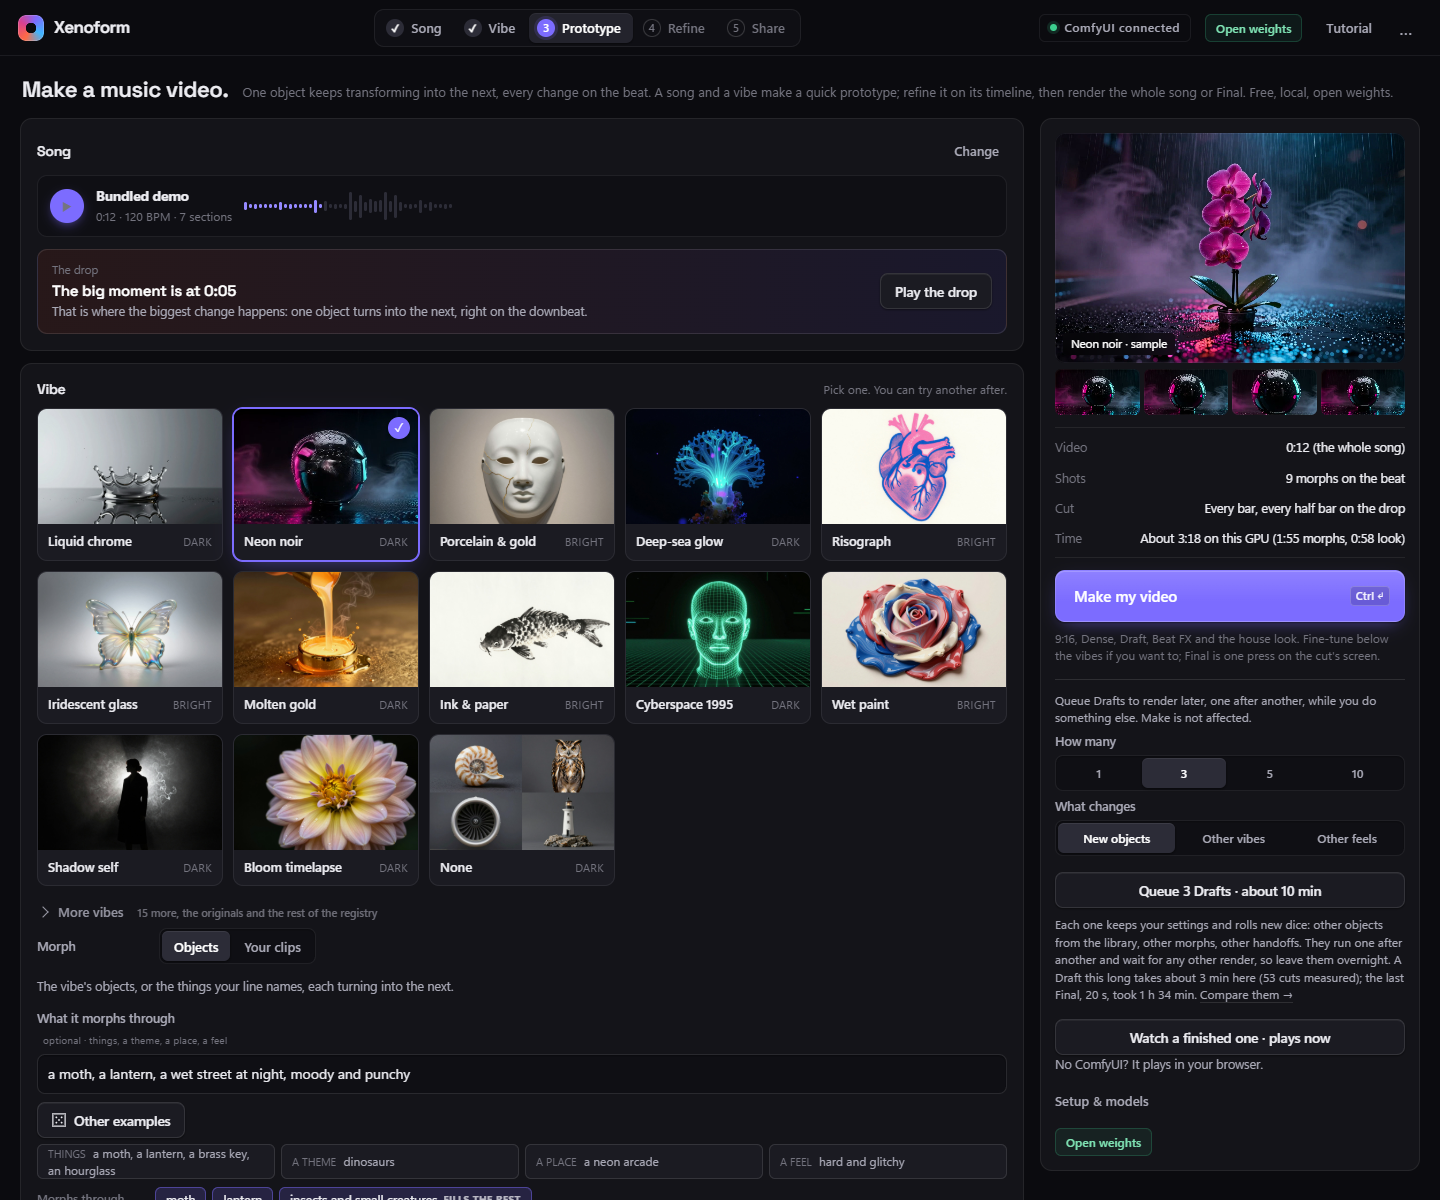
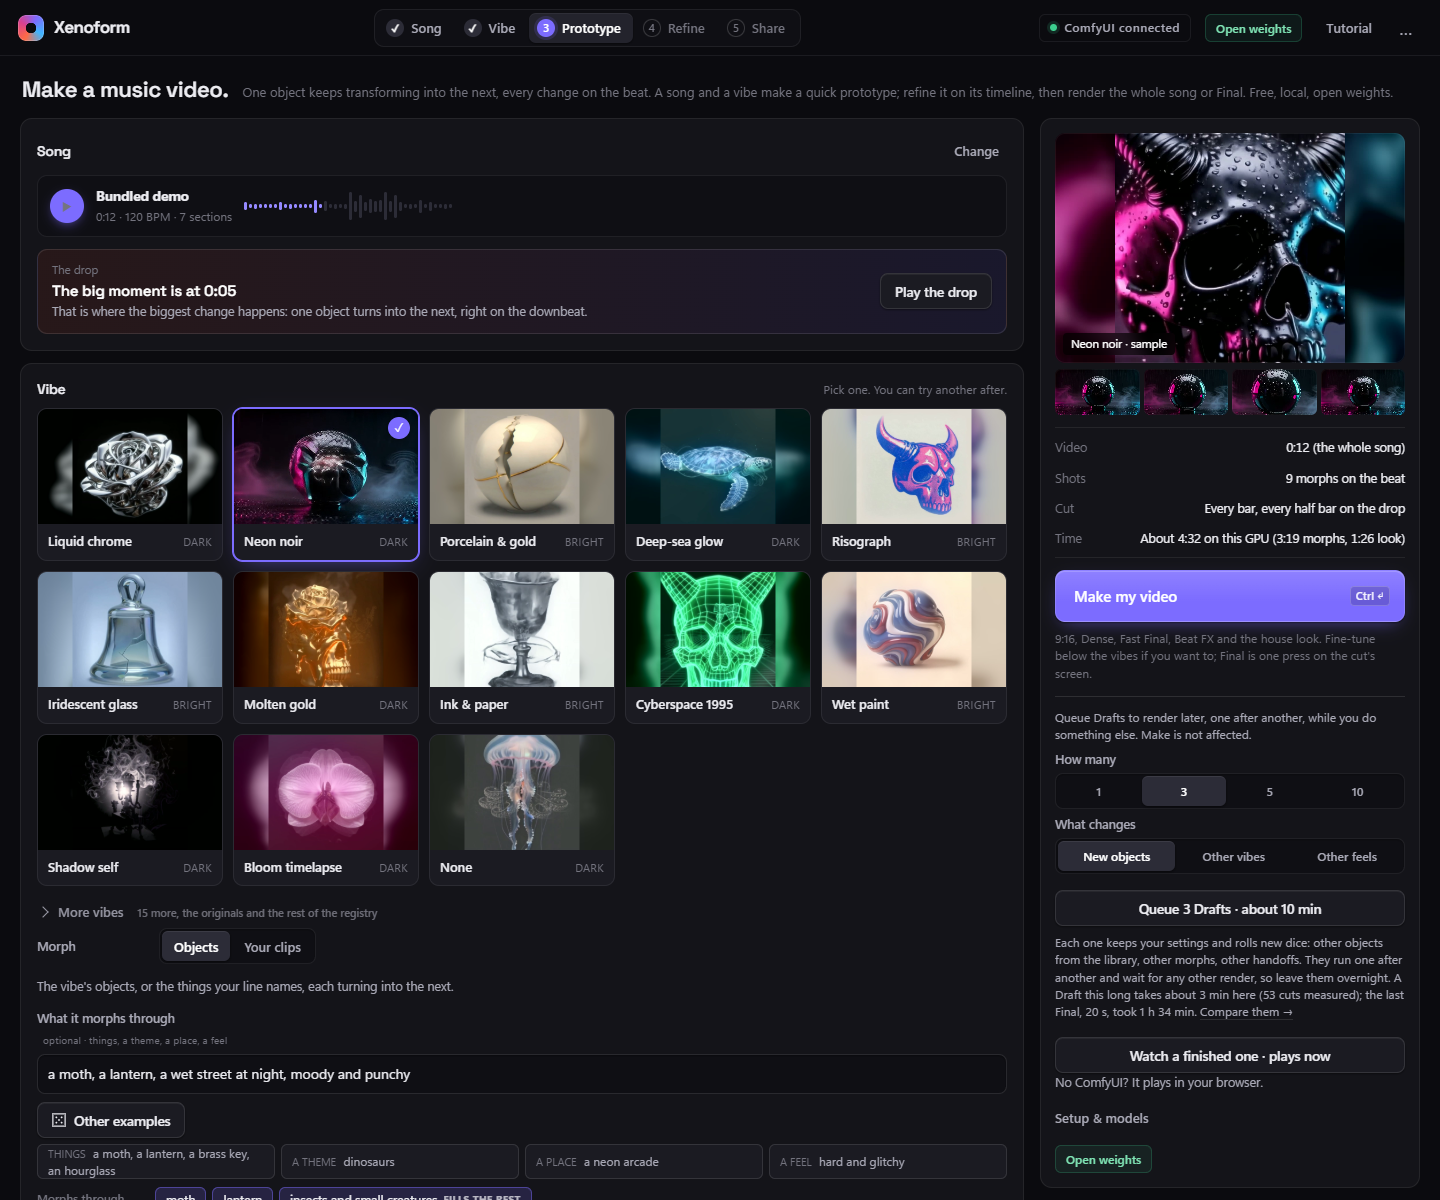
Vibe tiles from the engine's own cuts; the demo says any card from 12 GB up
Each featured tile is one frame of that vibe's Cloud Final cut (the ten example cuts of 29 Oct plus the three
showcase cuts: one per vibe, 128 + 37 morphs on Comfy Cloud), the centre of the frame on its own blur, in place of
the drawn stills; the desk serves the tiles no-cache like its scripts, so a changed tile shows without a hard refresh
(test). The README's two screenshots are retaken on them. The demo's How it's built line, the long's l36, the
diagram's LTX box and CONTEST.md's Runs on row say the app runs on any card from 12 GB up, not on one 12 GB card
(Tys). The walkthrough page and the handoff carry the example cuts (jobs, chains, 464 credits, 11,325 left) and the
wording change.

Changed region(s): [[0.0, 0.3392, 0.9688, 0.9867], [0.7188, 0.0925, 1.0, 0.3083], [0.1875, 0.3392, 0.2812, 0.4317]]

diff --git a/src/xenoform/ui.py b/src/xenoform/ui.py
@@ -256,11 +256,14 @@ def create_app(cfg: dict | None = None):
 
     class _FreshCode(StaticFiles):
         """The desk's own scripts and styles revalidate on every load (an ETag check, a 304 when unchanged), so a desk
-        restarted on new code is new in the browser without Ctrl+Shift+R; pictures keep the browser's usual cache."""
+        restarted on new code is new in the browser without Ctrl+Shift+R; so do the vibe tiles (their pictures change
+        with the library: 29 Oct, one frame of each vibe's Cloud Final cut); other pictures keep the browser's usual
+        cache."""
 
         def file_response(self, full_path, *args, **kwargs):
             response = super().file_response(full_path, *args, **kwargs)
-            if str(full_path).endswith((".js", ".css", ".html")):
+            path = str(full_path).replace("\\", "/")
+            if path.endswith((".js", ".css", ".html")) or "/vibes/" in path:
                 response.headers["Cache-Control"] = "no-cache"
             return response
 

diff --git a/tests/test_desk_steady.py b/tests/test_desk_steady.py
@@ -100,6 +100,7 @@ def test_the_desk_code_revalidates_so_a_restart_needs_no_hard_reload():
     client = TestClient(ui.create_app())
     assert client.get("/static/app.js").headers.get("cache-control") == "no-cache"
     assert client.get("/static/desk.css").headers.get("cache-control") == "no-cache"
+    assert client.get("/static/vibes/neon-noir.jpg").headers.get("cache-control") == "no-cache"  # the tiles change with the library
 
 
 def test_variations_queue_one_draft_and_say_so_in_plain_words():

diff --git a/docs/demo/walkthrough.md b/docs/demo/walkthrough.md
@@ -14,7 +14,7 @@ the social post. Voice-over over the screen, the outputs played full frame, capt
   and setup instructions, and the URL of a public post tagged #OpenSourceHiggsfield that carries the video and the repo
   link. Categories claimed: Open Weights Only, and the LTX bonus (LTX as the core video model).
 - So the short video must, inside 1:55: show the desk making and editing a cut, show real outputs, say how it is built
-  (song analysis, ComfyUI graphs through the Comfy SDK, LTX on one 12 GB card, all open weights) and say what is new.
+  (song analysis, ComfyUI graphs through the Comfy SDK, LTX on any card from 12 GB up, all open weights) and say what is new.
   It ends on the repo URL. The long one is for the README and the post's replies, with no limit.
 
 ## Short (about 1:52)
@@ -31,7 +31,7 @@ the social post. Voice-over over the screen, the outputs played full frame, capt
 | 0:54 | The timeline: picture tiles, the Look tab, a colour change, Apply | Then edit it like a timeline. Colour, effects, order and cuts, shot by shot, re-cut from the cached morphs with no GPU. |
 | 1:07 | Morph > Your clips: Caligari, Nosferatu, NASA | Or morph your own film clips into each other. |
 | 1:15 | Draft, Fast Final, Final, Cloud Final, with their times | A Draft in minutes, a Fast Final at 1080p, the full local Final, or Cloud Final, the same morphs on Comfy Cloud. |
-| 1:23 | How it's built: song → stems and bars → plan → ComfyUI graphs → LTX morphs → re-cut (a diagram over the desk) | How it's built: the song is split into stems and bars, the plan becomes ComfyUI graphs sent through the Comfy SDK, and LTX renders every morph on one 12 GB card. All open weights, local by default. |
+| 1:23 | How it's built: song → stems and bars → plan → ComfyUI graphs → LTX morphs → re-cut (a diagram over the desk) | How it's built: the song is split into stems and bars, the plan becomes ComfyUI graphs sent through the Comfy SDK, and LTX renders every morph on any card from 12 GB up. All open weights, local by default. |
 | 1:37 | What's new: the song's waveform under the timeline; the MCP panel | What's new: the edit comes from the music itself, every shot is generated, and you change it like an editor, not a prompt box. An MCP server lets any AI drive it. |
 | 1:48 | End card: github.com/tysonfarrington-cmyk/xenoform, #OpenSourceHiggsfield | Xenoform. Open source, on GitHub. |
 
@@ -88,9 +88,9 @@ the social post. Voice-over over the screen, the outputs played full frame, capt
   real (a None "underwater" cut; racing was the first example, dropped: "you want to see cars driving not
   morphing"). Recording found the desk blinking on every click (fixed in
   f9eaa7e).
-- **The short** (1:42 af_heart, 1:48 am_michael, 1:46 bm_george) and **the long** (6:52 in af_heart, ten chapters with
-  labels) were rebuilt on the frozen app on 29 Oct at 7 am and are in `Desktop\xeno_walkthrough_29oct`, with 720p review
-  copies. Every desk shot was re-recorded on the final commit (the Make on camera is a Fast Final of the None
+- **The short** (1:43 af_heart, 1:48 am_michael, 1:47 bm_george) and **the long** (6:52 in af_heart, ten chapters with
+  labels) were rebuilt on the frozen app on 29 Oct (last at 9 am) and are in `Desktop\xeno_walkthrough_29oct`, with 720p
+  review copies. Every desk shot was re-recorded on the final commit (the Make on camera is a Fast Final of the None
   "underwater" cut, b251df0c); captions are burned in from the voice copy; the music bed is Tys's Suno track
   XF_HipHop_BoomBap_01, ducked under the voice (looped under the long one); the mix is -16 LUFS.
 - **The long one's chapters** (for the YouTube description, af_heart timing): 0:00 What it is · 0:20 Song and vibe ·
@@ -106,6 +106,27 @@ the social post. Voice-over over the screen, the outputs played full frame, capt
   seahorse pair (two seahorse stills, 7 to 12 s), so its shots start past it. The first attempt through the API ran the
   classic chunk render instead (the Make body needs `quality: "turbo"`, as the desk sends it); those three jobs
   (abdf7a0d, b599647d, 8057c0c0) spent nothing on Cloud and sit in desk 47326's My videos.
+- **"Any card from 12 GB up"** (Tys, 29 Oct 9 am: the demo "can run on 12gb vram and up cards not just a 12gb"): the
+  short's How it's built line, the long's l36 and the diagram's LTX box said "one 12 GB card"; they now say any card
+  from 12 GB up (so does docs/CONTEST.md's Runs on row). Only those two lines were re-read (`kokoro-tts/reread_line.py`
+  replaces one line's wav in a read and its seconds; the measures held: no rising end, one sample at the peak), the
+  cards re-recorded with the cue moved from "card." to "gigabytes up.", and both cuts re-assembled.
+- **The example cuts** (Tys, 29 Oct 9 am: "we have heaps of credits left so we should make a few example videos"):
+  one 30 s Cloud Final cut for each of the other ten featured vibes, through the desk like any Make, on Tys's Suno
+  instrumentals (`scratchpad/wt/examples.py`), in `Desktop\xeno_examples_29oct` with a 16-frame sheet each and
+  `examples.json` (job, chain, time): Liquid chrome / Techno (dad92e3f), Porcelain & gold / Breakbeat (18dcd1a8),
+  Deep-sea glow "underwater" / DnB v2 (d2f19f7a), Risograph / Hip-hop (00ac3e00), Iridescent glass / Synthwave v2
+  (fbd103a4), Ink & paper / Riff Tool (d4ed04ab), Cyberspace 1995 / Psytrance (a56d1354), Wet paint / Bass (3991568a),
+  Shadow self / Riff Korn (b4fd5b3f), Bloom timelapse / Ambient (ec770cb9). 128 morphs in 63 minutes, 5:02 to 7:32 a
+  cut (a cut that grows fresh objects for its chain first is the slow end); the dashboard went 11,789 to 11,325
+  credits (464, about 3.6 a morph). With the three showcase cuts that is one Cloud Final cut per vibe, for the post
+  and the README once Tys uploads them. Seen on the sheets: bright vibes (porcelain, glass, ink, wet paint) show the
+  boundary wipes as pale bands across the ground for a few frames, which the dark vibes hide.
+- **The vibe thumbnails** (Tys: "update thumbnails for vibes") are now one frame from each vibe's Cloud Final cut
+  (`scratchpad/wt/make_thumbs.py` with `picks_thumbs.json`: the centre square of the frame on the same frame blurred,
+  1280x800 like before; the old files are in `scratchpad/wt/thumbs_old`). One judge a vibe picked the frame from the
+  sheet (a fully formed object, a strong silhouette at 150 px), checked by eye. The README's two screenshots were
+  retaken with them (`readme_shots.py`).
 
 ## Still to decide
 

diff --git a/CHANGELOG.md b/CHANGELOG.md
@@ -2,6 +2,11 @@
 
 ## 0.3.3 (unreleased, the week to the contest)
 
+- **The vibe tiles show the engine's own pictures** (Tys, 29 Oct: "update thumbnails for vibes"). Each of the thirteen
+  featured tiles is one frame of that vibe's Cloud Final cut (LTX-2.5 on Comfy Cloud, the example cuts of 29 Oct), the
+  centre of the frame on the frame's own blur, in place of the drawn stills. The tiles' pictures now revalidate on every
+  load like the desk's scripts (`Cache-Control: no-cache`), so a changed tile shows without a hard refresh. The demo and
+  CONTEST.md say the app runs on any card from 12 GB up, not on one 12 GB card.
 - **Cloud Final** (Tys, 29 Oct: "we have access to ltx 2.5 though ?? and a comfyui sub thing ?? surely there can at least be an option for that"). Model → Cloud Final renders every morph on Comfy Cloud (`xenoform.cloud_final` through `cloud_backend`), three at a time at 576x1024, then scales them to 1080x1920 and composes the cut here: on the test pair (nautilus -> owl, 3 s) a morph came back in 58 s. **The Final is LTX-2.5 now, here and on Cloud**, with loose guides: with its graph's own guides (strength 1.0, img_compression 18) LTX-2.5 held the shell and cut to the owl near the end, on Cloud and on this card alike; with the end guide at 0.6, img_compression 30 and a prompt that asks for the change across the whole clip it morphs, half and half mid-clip, where LTX-2.3 makes a quicker change. Locally it is the Final whenever the four LTX-2.5 files are installed (`XENO_FINAL_MODEL=ltx23` keeps LTX-2.3): 5 to 7 minutes a 3 s shot at 576x1024 against 12 for LTX-2.3's two stages and upscale. The local LTX-2.5 Draft engine, meant to switch on when its files were present, never had (its check imported a function that did not exist); it is opt-in now (`XENO_MORPH_ENGINE=ltx25`). The same open weights on Comfy's GPUs: partner and API nodes are refused before anything is sent. It spends the account's Comfy Cloud credits, so it needs `COMFY_ORG_API_KEY` in the desk's environment, a tick under Model on every Make (`cloud_final_ok`, cleared when the model changes), and takes at most 16 morphs a cut; a morph that fails on Cloud falls back to its Draft.
 - **The example theme is underwater, not racing** (Tys, 29 Oct: "you want to see cars driving not morphing"). The underwater theme is sea life only now (a jellyfish, an octopus, a seahorse, a nautilus, a manta ray and ten more: soft, flowing forms are what a morph does best; the diving helmet, anchor, ship's wheel, submarine and porthole went), and twelve of its fifteen are already in the library. A theme's own name typed alone is that theme even where it is also a place word: "underwater", "space" and "the wild west" read as scenes before. The desk's placeholder, examples and the README lead with it; racing stays in the list.
 - **A click no longer blinks the desk** (found recording the walkthrough, 29 Oct; Tys, 28 Oct: "make sure everything is static"). Every click redraws the desk, and the fade-in on the page faded the whole desk out and back with a 4 px slide each time. It plays now only when the screen changes (the desk, the making screen, the cut, a tool page).

diff --git a/docs/HANDOFF_29OCT.md b/docs/HANDOFF_29OCT.md
@@ -58,6 +58,16 @@ out of date on the tiers (no Cloud Final, "all local") and must be rebuilt after
   `run_directed` runs the classic chunk render (the first three jobs abdf7a0d, b599647d, 8057c0c0 did; no credits
   spent); and the chain picker let two seahorse stills sit side by side in the None cut (a repeat inside a cut, a
   follow-up for after the contest, so the shots were placed past it).
+- 9 to 10:30 am, Tys's three asks: (1) **example cuts**, one 30 s Cloud Final cut for each of the other ten featured
+  vibes on his Suno instrumentals (`scratchpad/wt/examples.py`; `Desktop\xeno_examples_29oct`, a sheet and
+  `examples.json` beside them; 128 morphs, 464 credits, 11,325 left), so every vibe has a Cloud Final cut for the post
+  and the README once he uploads them; (2) **the demo says any card from 12 GB up**, not one 12 GB card: the short's
+  How it's built line, the long's l36, the diagram's LTX box and CONTEST.md's Runs on row; only those two lines were
+  re-read (`C:\Projects\kokoro-tts\reread_line.py`), the cards re-recorded, both cuts re-assembled to the Desktop
+  (short 1:43 / 1:48 / 1:47, long 6:52); (3) **new vibe thumbnails**, one frame from each vibe's Cloud Final cut
+  (`scratchpad/wt/make_thumbs.py`, `picks_thumbs.json`; the old files in `scratchpad/wt/thumbs_old`), and the README's
+  screenshots retaken on them. Not redone: the walkthroughs' desk shots still show the old vibe tiles (a re-record of
+  every desk shot is `shots.py` + `long_shots.py`, about half an hour with a Fast Final Make on camera).
 
 ## What is left, in order
 

diff --git a/docs/CONTEST.md b/docs/CONTEST.md
@@ -41,7 +41,7 @@ Contest: [Open Source Higgsfield](https://comfy.org/open-source-higgsfield/), ru
 | ComfyUI parts used | Comfy Python SDK (comfy-sdk 0.5.0 + comfy-api-proxy); MCP server (45 tools); core nodes only in the shipped workflows |
 | Models | LTX-Video 0.9.5, LTX-2.5 22B distilled int8, LTX-2.3 22B distilled fp8, Z-Image Turbo, Wan Animate 2, Real-ESRGAN x4plus and realesr-animevideov3 (optional: FLUX.2 Klein 4B, ACE-Step 1.5, MiniMax H3 for Performer shots; Demucs htdemucs on the CPU for stems) |
 | Licence | MIT |
-| Runs on | Windows and Linux, Python 3.12, ComfyUI 0.33+, a 12 GB GPU for renders; the animatic and the judges page need no GPU |
+| Runs on | Windows and Linux, Python 3.12, ComfyUI 0.33+, a GPU from 12 GB up for renders; the animatic and the judges page need no GPU |
 
 ## Social post (draft, under 280 characters)
 
